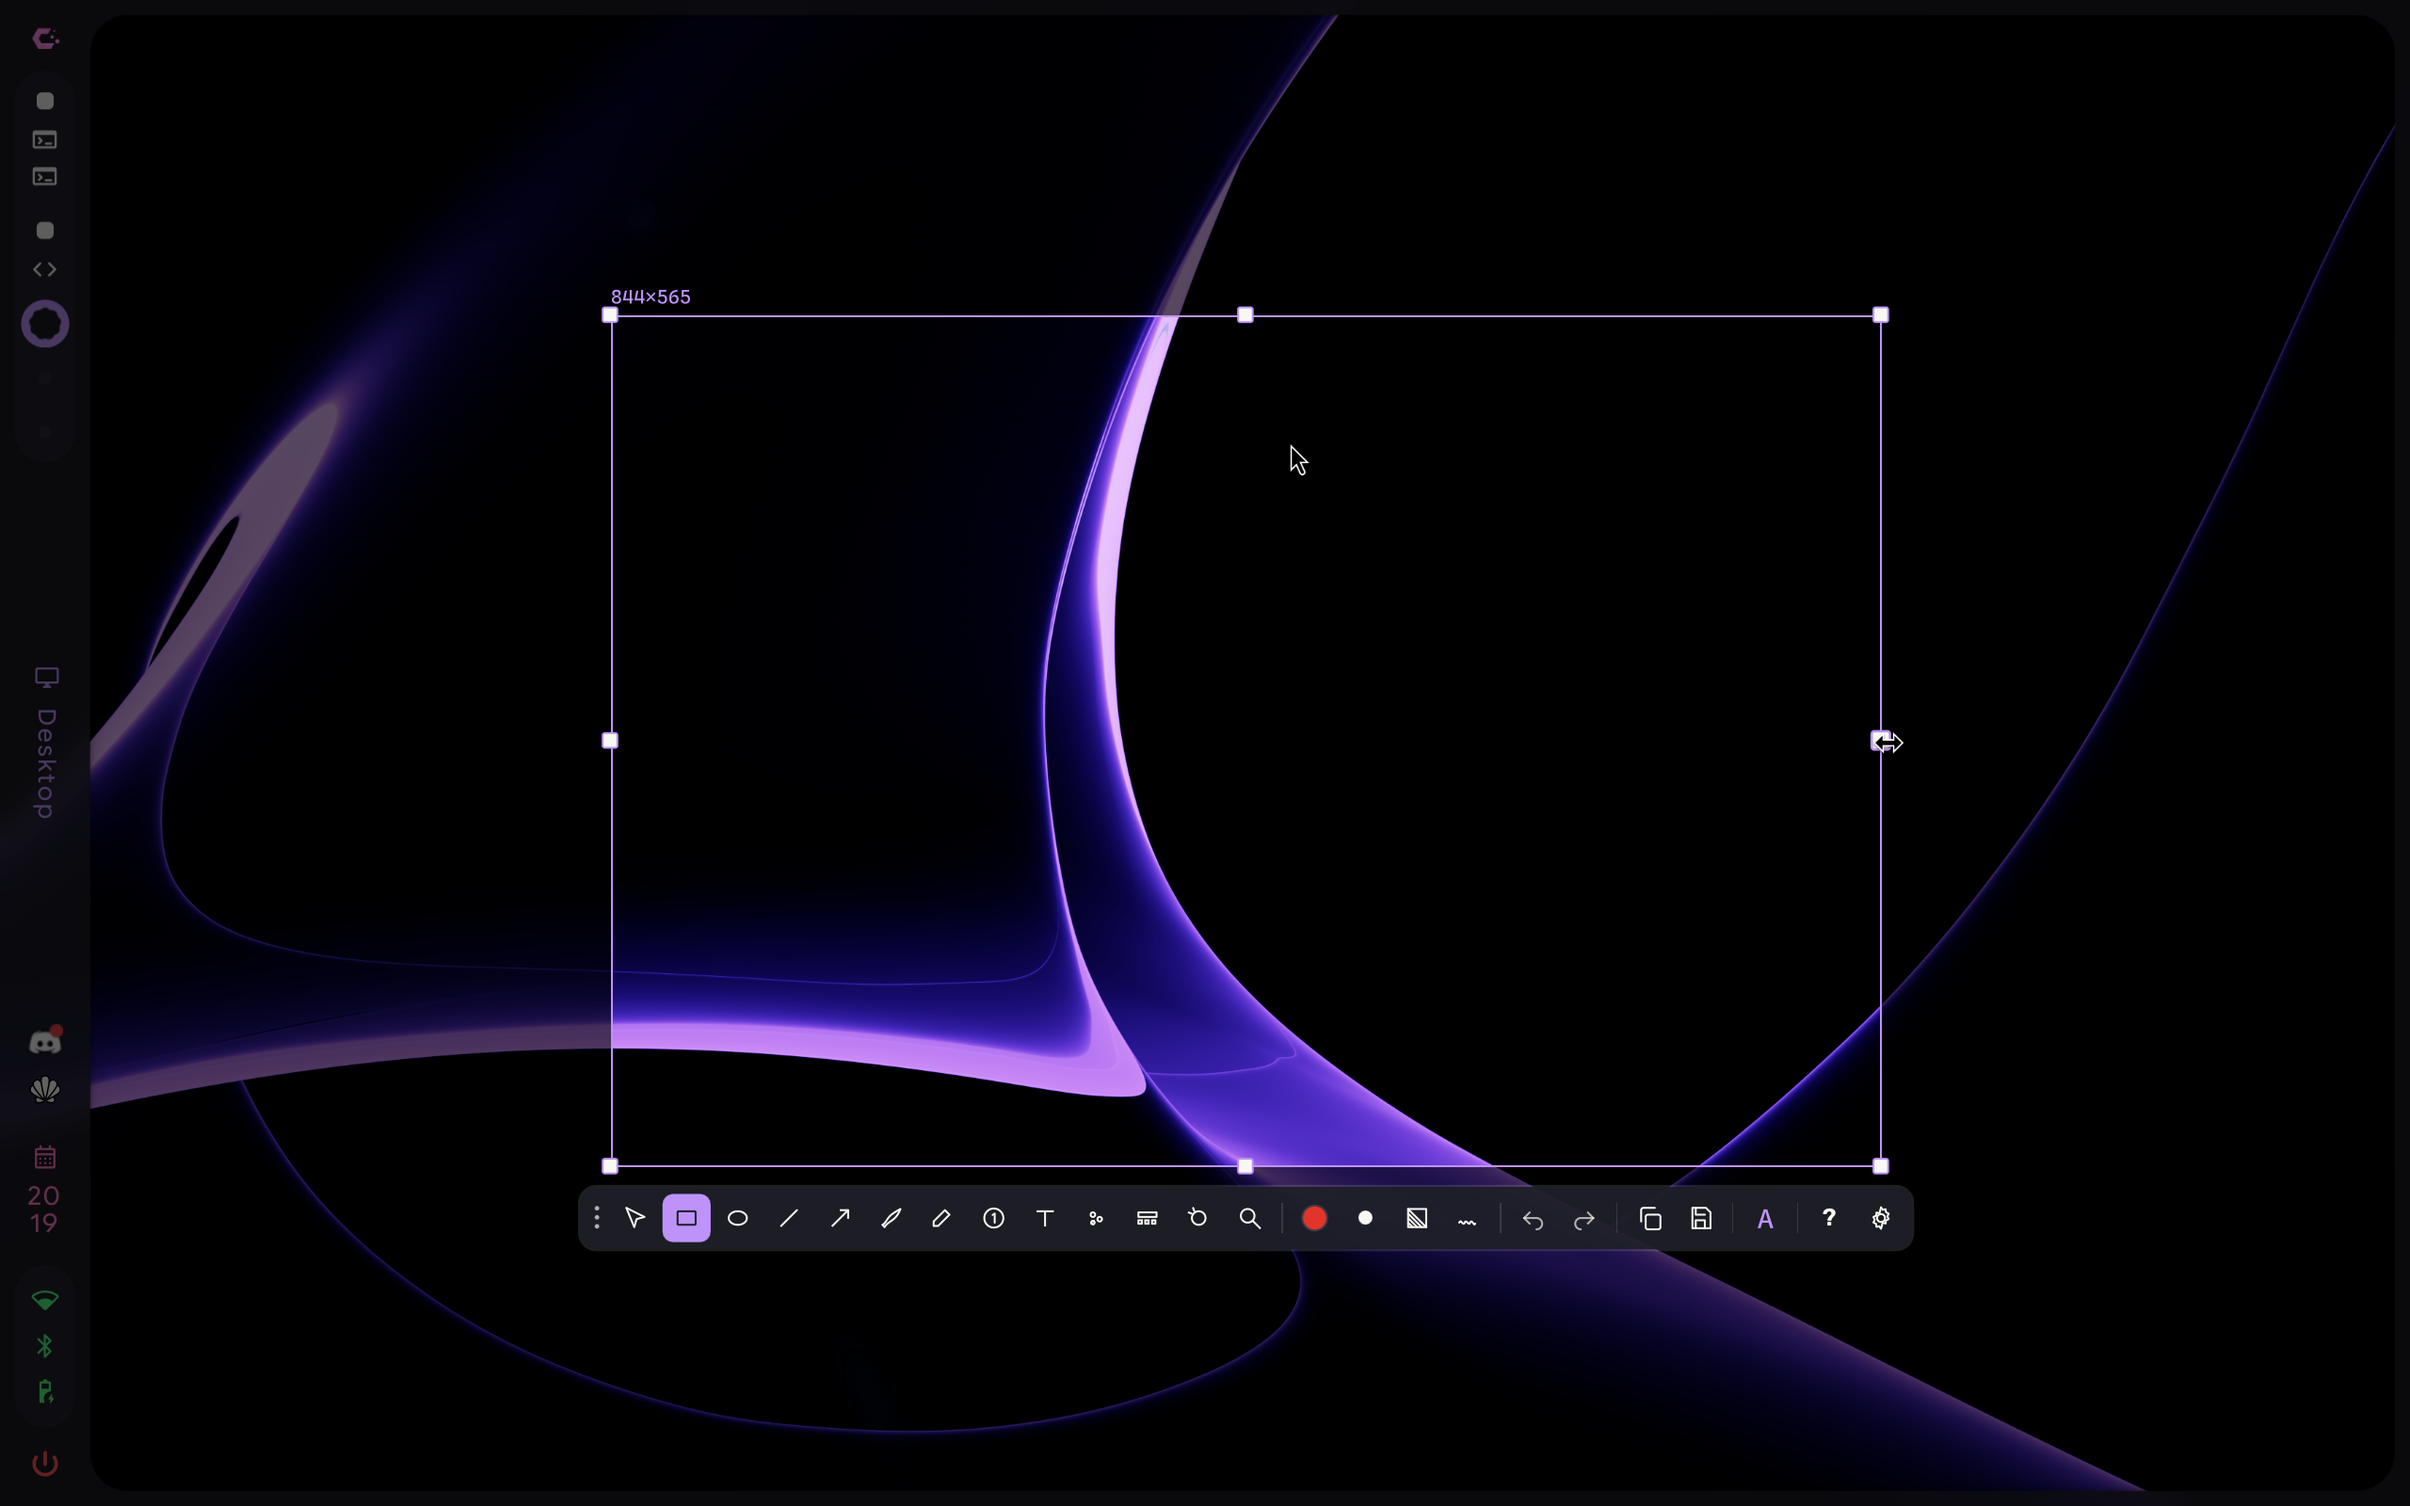
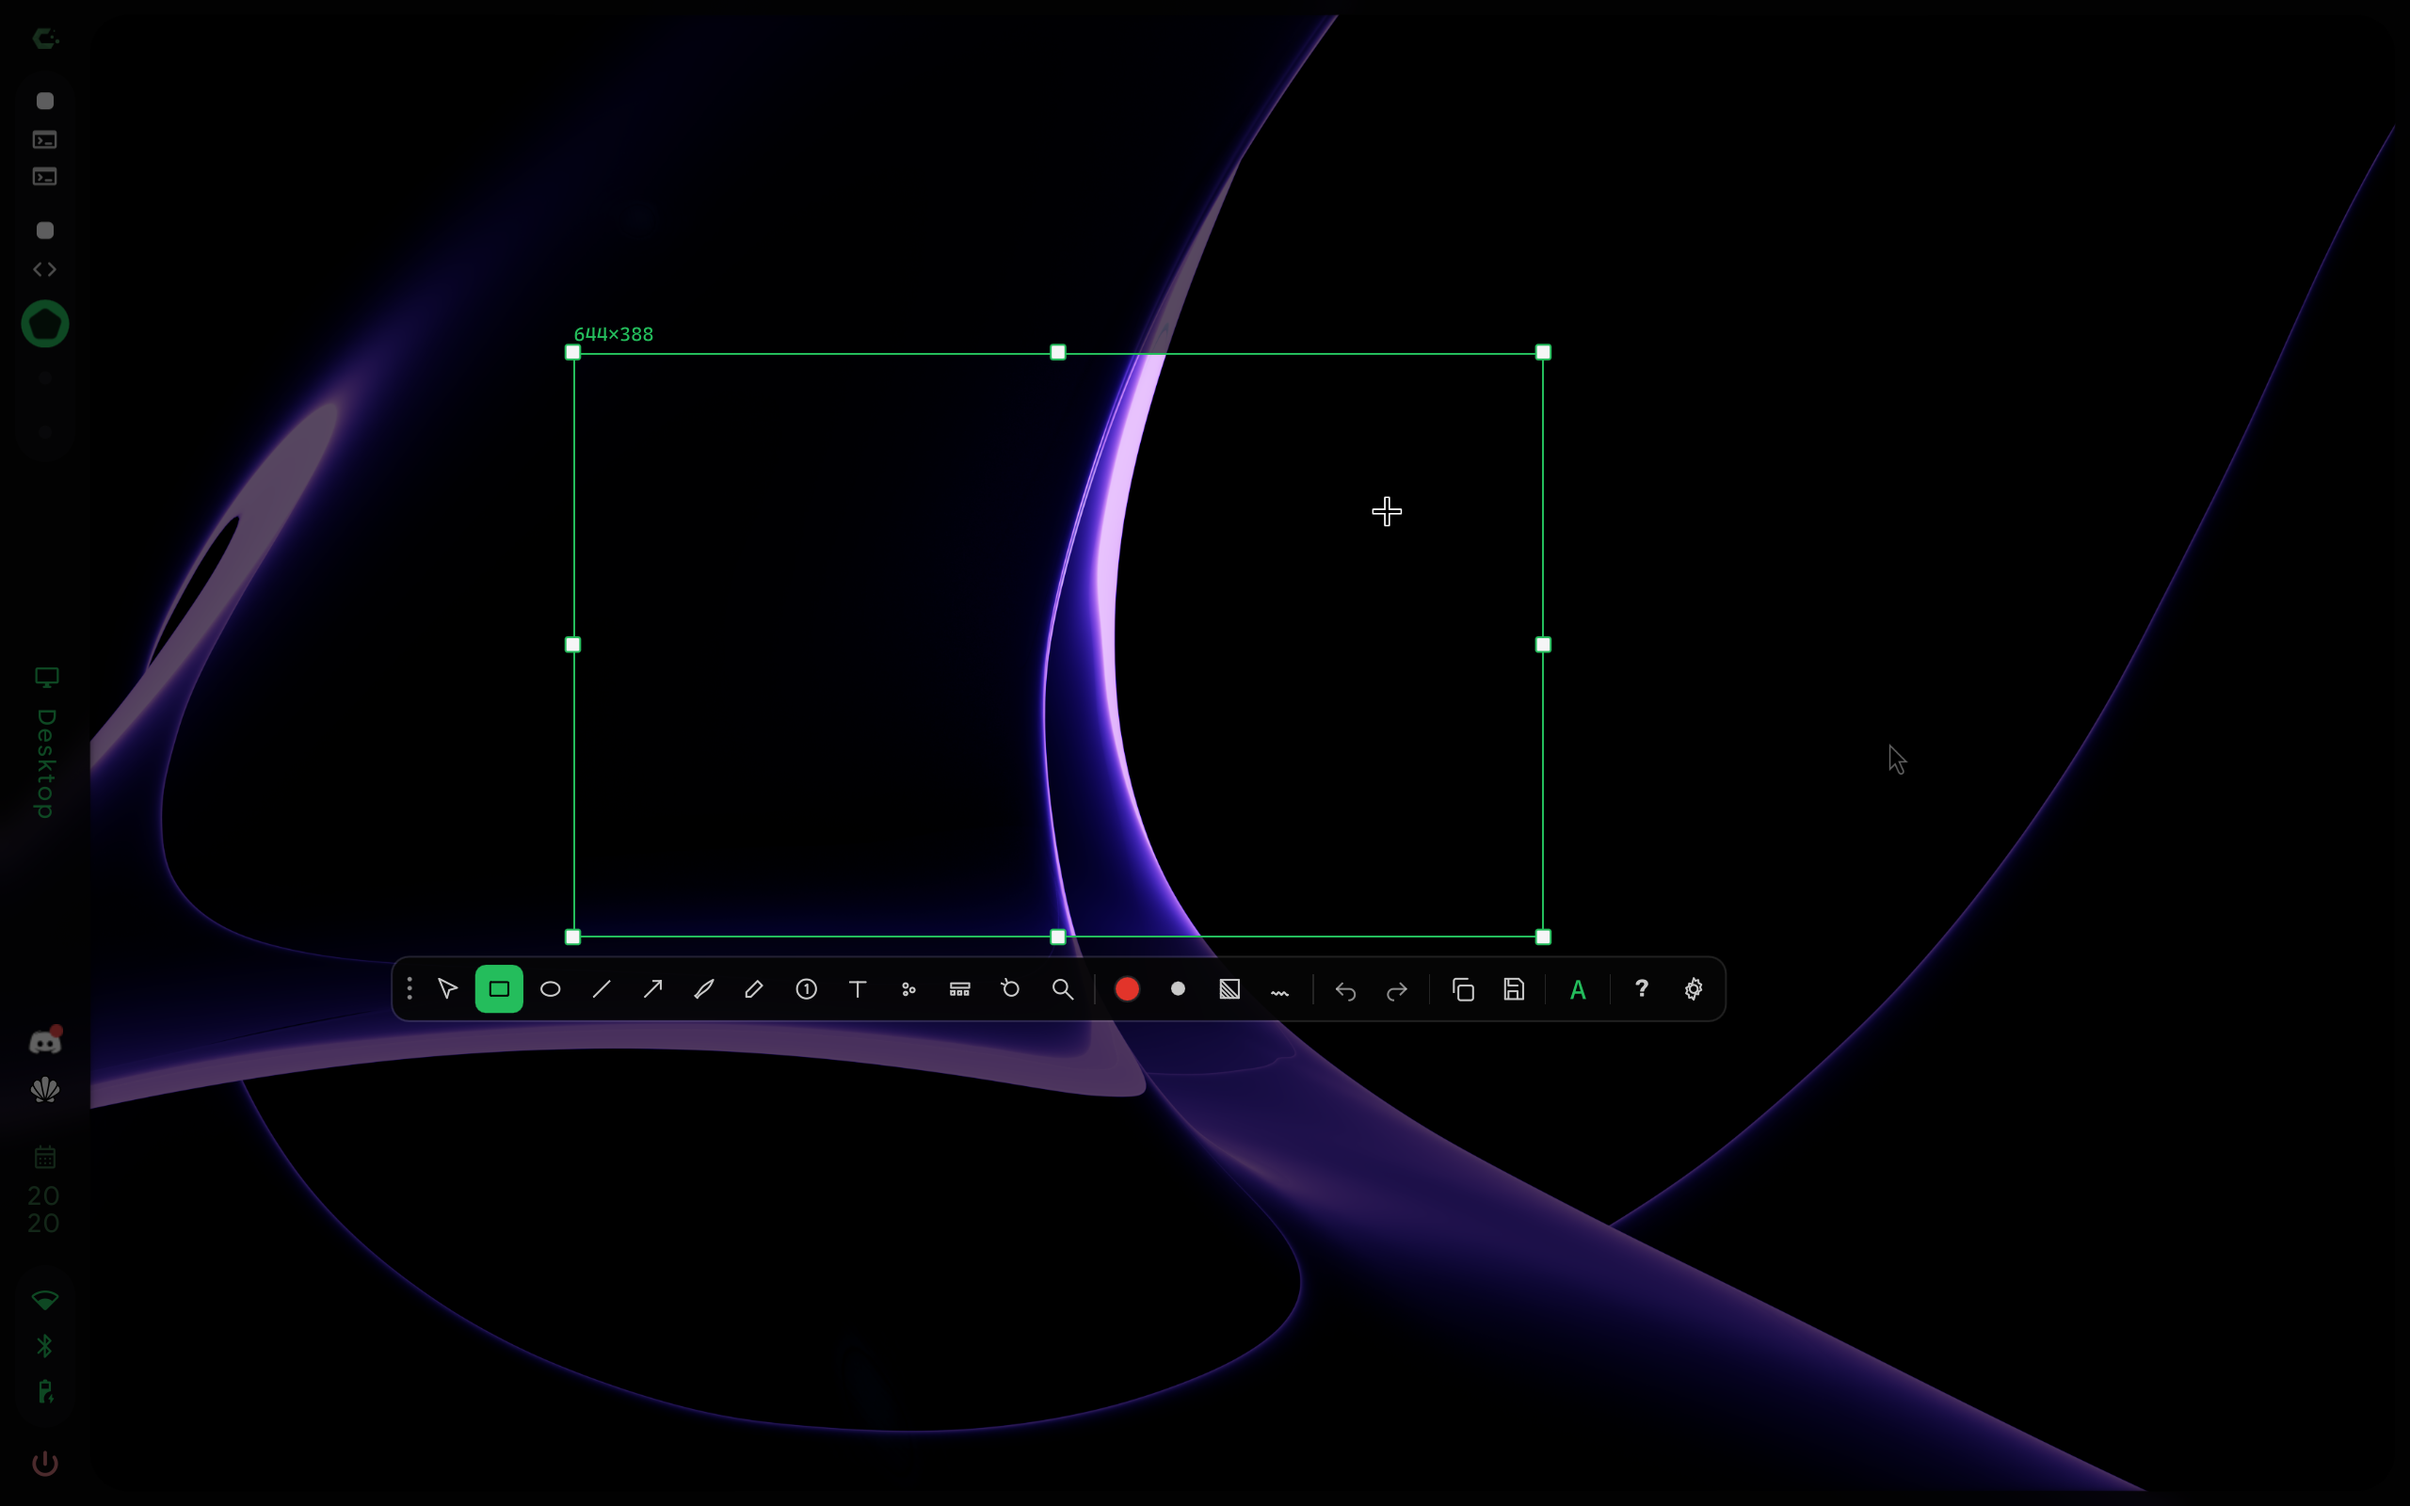
Show the annotation toolbar with the darkgreen scheme
Claude-Session: https://claude.ai/code/session_0181tnsHR1xJCcs8DAHN2Q3u

diff --git a/README.md b/README.md
@@ -7,7 +7,7 @@ Colours follow your Caelestia scheme. No network access, no Ryoku dependency.
 
 ![asteroid overlay on Caelestia with the Dracula scheme](docs/overlay.png)
 
-![Region selected, with the annotation toolbar](docs/annotate.png)
+![Region selected with the annotation toolbar, Caelestia darkgreen scheme](docs/annotate.png)
 
 ## Features
 
